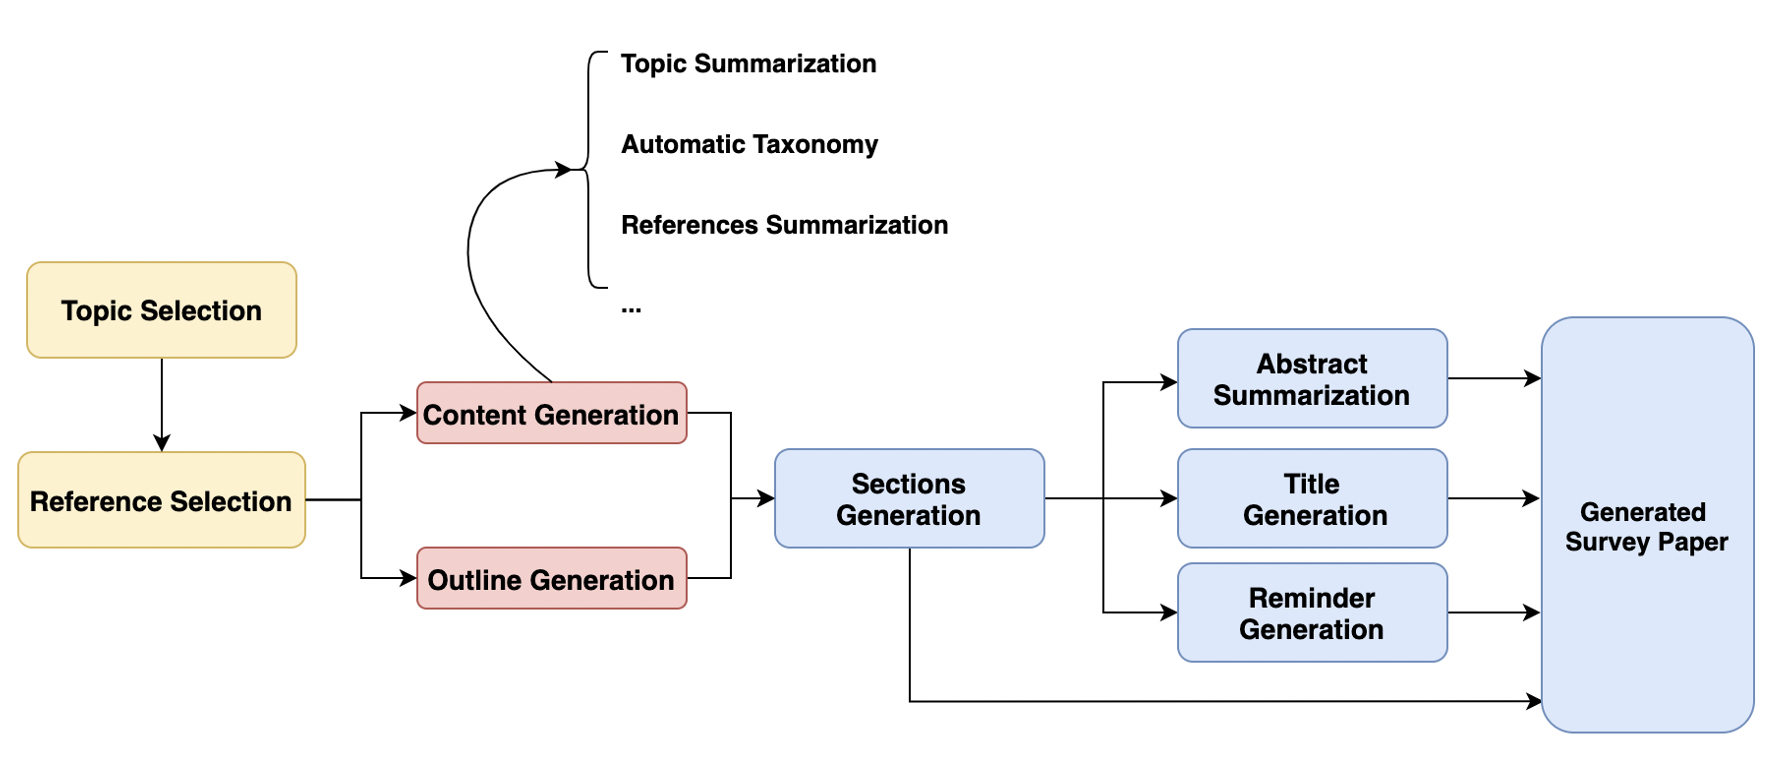
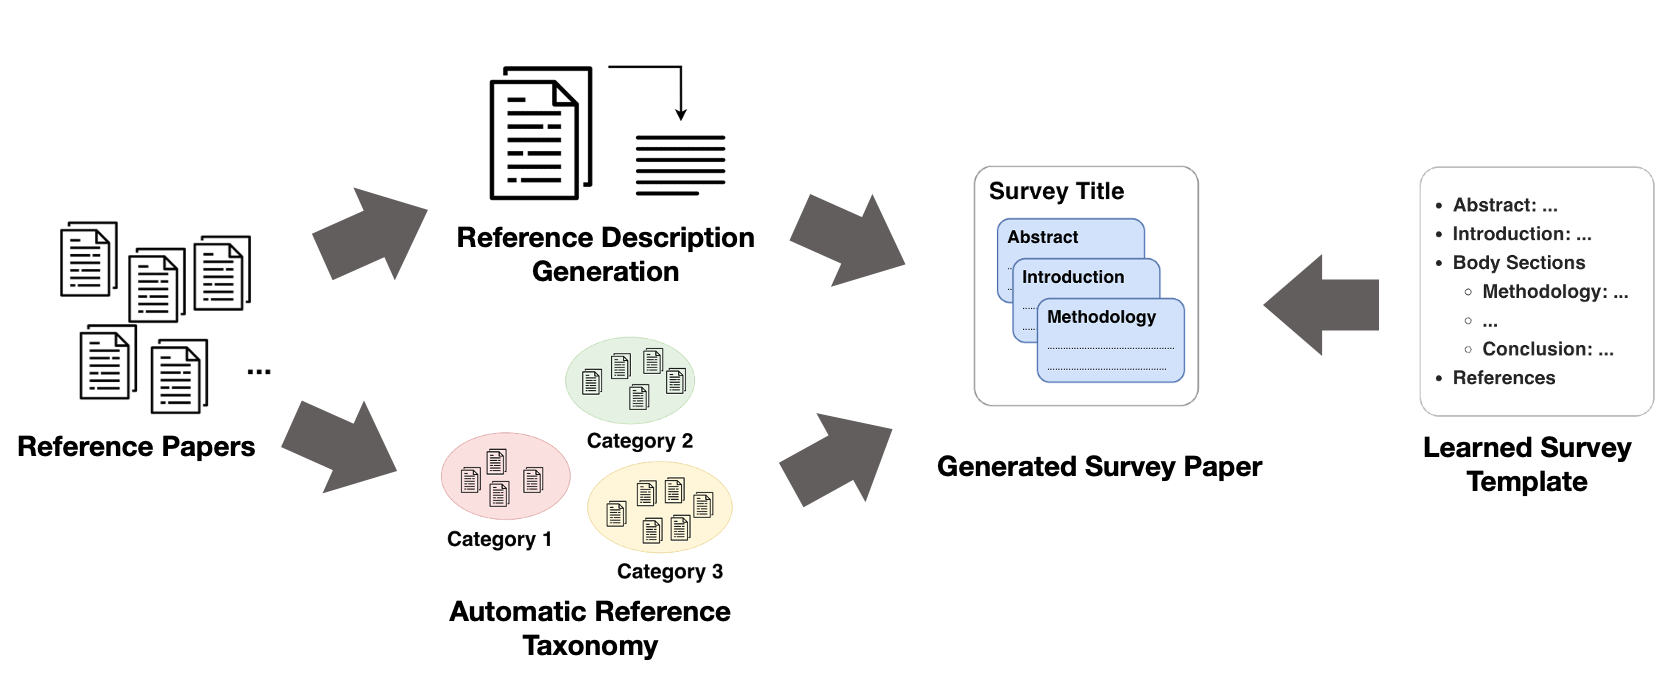
.

Changed region(s): [[0.0, 0.061, 0.9917, 0.9767]]

diff --git a/asg/demo/templates/demo/index.html b/asg/demo/templates/demo/index.html
@@ -73,9 +73,9 @@ FONTS & ICONS
 	HEADER
 	============================ -->
 	<div class="col-md-12">
-		<h2 align="left"> <span class="fas fa-sitemap"></span>  Workflow of the Demo: </h2>
+		<!-- <h2 align="left"> <span class="fas fa-sitemap"></span>  Workflow of the Demo: </h2> -->
 			<div align="center">
-				<img src="{% static 'img/workflow.png' %}" style="width:800px;height:350px;", id="workflow_img" >
+				<img src="{% static 'img/motivation.gif' %}" style="width:800px;height:450px;", id="workflow_img" >
 			</div>
 		<br>
 		<br>
@@ -148,7 +148,7 @@ FONTS & ICONS
      Taxonomy Result
     ============================ -->
 	<div class="col-md-12" style="display: none" id="taxonomy">
-		<h2 align="left"> <span class="fas fa-chart-pie"></span> The Automatic Taxonomy Result of Selected References is (re-ordered): </h2>
+		<h2 align="left"> <span class="fas fa-chart-pie"></span> The Clustering Result of Selected References is (re-ordered): </h2>
 		<div class="row">
 			<div class="col-md-7" style="height:400px;">
 				<img src="#" style="width:400px;height:400px;", id="tsne_img">
